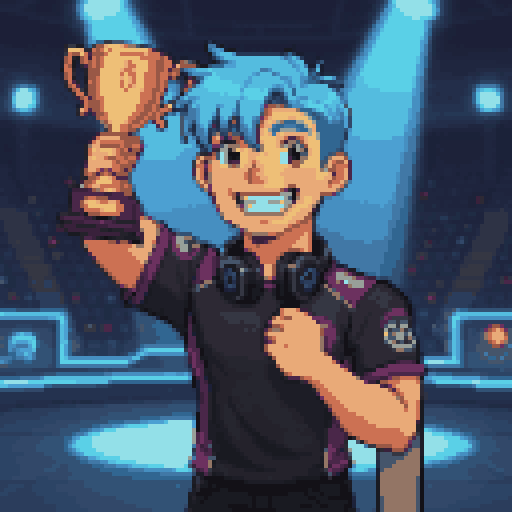
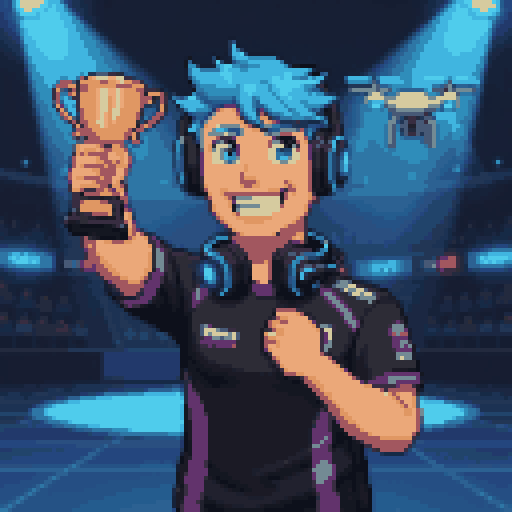
Examples: pets on chef, detective, pro gamer, rockstar

diff --git a/worker/public/index.html b/worker/public/index.html
@@ -78,11 +78,11 @@
         <h1 class="logo"><span>Pixel</span><span>Wayfarers</span></h1>
       </div>
       <div class="posters" aria-label="Wanted posters of Pixel Wayfarers">
-        <figure class="poster p1"><img src="/art/sample-01.png" alt="An example chef wayfarer with a steaming mug" width="512" height="512"><figcaption>Chef</figcaption></figure>
-        <figure class="poster p2"><img src="/art/sample-02.png" alt="An example detective wayfarer with a magnifying glass" width="512" height="512"><figcaption>Detective</figcaption></figure>
+        <figure class="poster p1"><img src="/art/sample-01.png" alt="An example chef wayfarer with a steaming mug and a cat" width="512" height="512"><figcaption>Chef</figcaption></figure>
+        <figure class="poster p2"><img src="/art/sample-02.png" alt="An example detective wayfarer with a magnifying glass and a pigeon" width="512" height="512"><figcaption>Detective</figcaption></figure>
         <figure class="poster p3"><img src="/art/poster-legendary.png" alt="An example legendary-style ferry captain at sunrise" width="512" height="512"><figcaption>Ferry Captain</figcaption></figure>
         <figure class="poster p4"><img src="/art/sample-03.png" alt="An example mechanic wayfarer holding a wrench" width="512" height="512"><figcaption>Mechanic</figcaption></figure>
-        <figure class="poster p5"><img src="/art/sample-04.png" alt="An example rare pro gamer holding a trophy" width="512" height="512"><figcaption>Pro Gamer</figcaption></figure>
+        <figure class="poster p5"><img src="/art/sample-04.png" alt="An example rare pro gamer holding a trophy with a mini drone" width="512" height="512"><figcaption>Pro Gamer</figcaption></figure>
       </div>
       <div class="scroll-panel">
         <p class="lede">1,000 cozy pixel folk on Robinhood Chain. Chefs, nurses, pilots, streamers. None of them alike.</p>
@@ -172,7 +172,7 @@
         </article>
         <article class="card c-epic reveal">
           <h3>Epic</h3>
-          <img src="/art/card-epic.png" alt="An example epic rockstar wayfarer with a pink guitar" width="512" height="512" loading="lazy">
+          <img src="/art/card-epic.png" alt="An example epic rockstar wayfarer with a pink guitar and a tiny bull" width="512" height="512" loading="lazy">
           <p class="odds">40 of 1,000</p>
           <p>Streamers, crypto traders, astronauts. Robot dogs.</p>
         </article>
